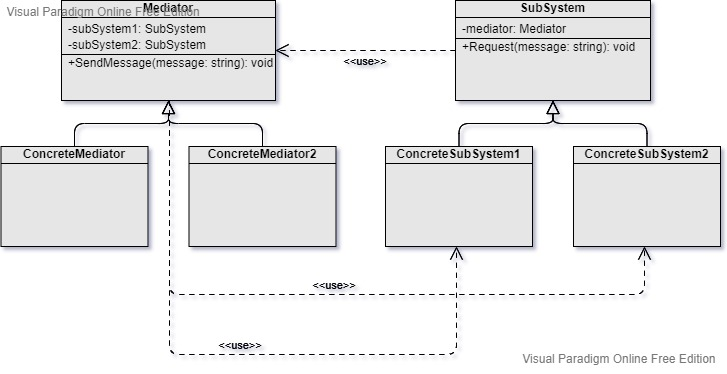
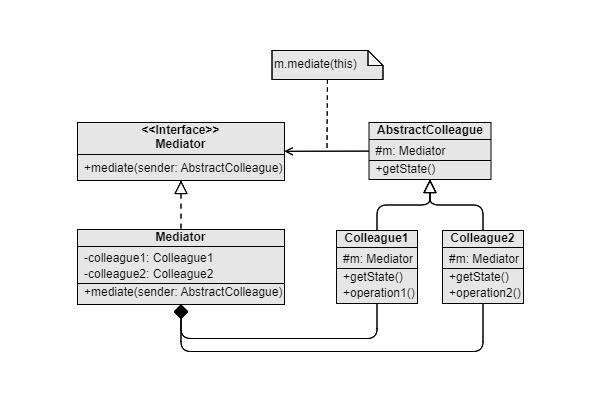
Revise the readme and UML diagram of Mediator design pattern

diff --git a/mediator/README.md b/mediator/README.md
@@ -1,11 +1,9 @@
 Mediator
 ===
-Scenario: When there are a great amount of subsystems that cooperate with each other, resulting in complex usage lines (how about 100 sub-systems with complex usage lines to each other?). Unlike the facade pattern, the mediator pattern is like a “Controller” in the MVC system model.
+Catalog: Behavioral design pattern
 
-Pattern: Groups complex execution order or subsystem interactions into a “mediator” class. Subsystems invoke the APIs provided by the “mediator” class.
+Scenario: There are complex dependencies between a group of objects. Unlike the Facade design pattern, the role of mediator is similar to the "Controller" in MVC pattern.
 
-Example:
-- In a game system, the soldier factory system uses a soldier system, a soldier system uses a resource system, a resource system uses a UI state info system……
-- A team in which manager and employees work together. Groups interactions into manager class, and leave detail professional tasks in employee classes
+Example: A sign-up or login form dialog. The text inputs, buttons, and checkboxes interacts with each others.
 
 ![UML](UML.jpg)
